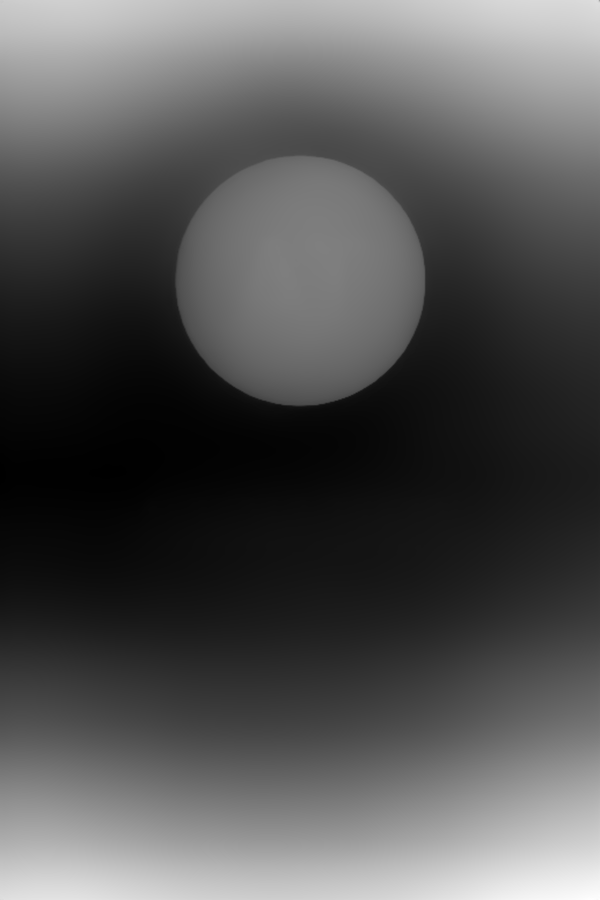
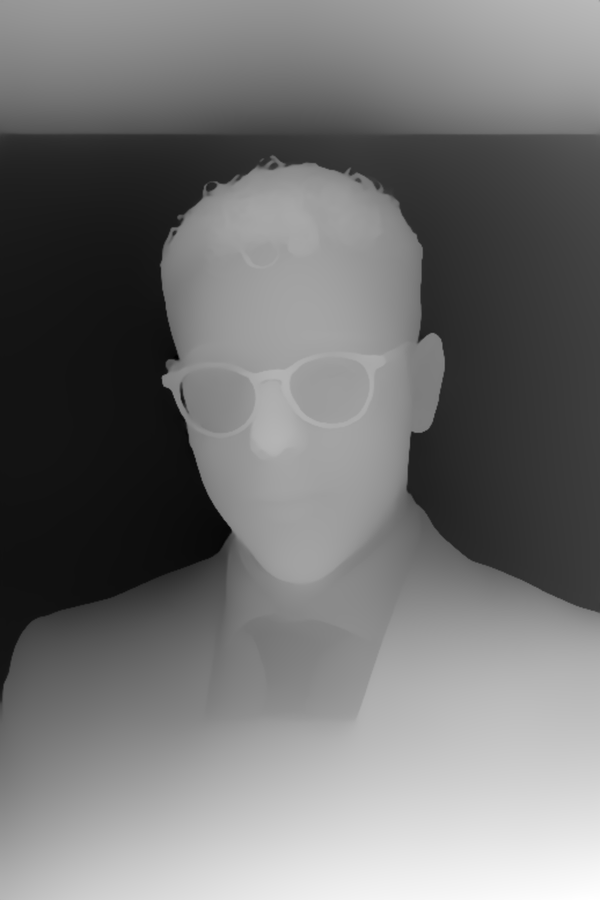
feat(team): Alberto Tuveri's real portrait replaces the monogram placeholder
The card, the headshot and the depth twin were all the same "PORTRAIT PENDING"
monogram since the third operator joined. This is the studio plate.

FRAMING IS NOT A CROP CHOICE — it is solved. The four portraits share ONE
sample grid, so a head at a different scale or height would move the union and
the fit for everyone. Measured off the three that shipped before it (hair top
0.168-0.175 of frame height, head width 0.395-0.448, face centre 0.466-0.507)
and reframed to the middle of that family: hair top 0.173, head width 0.438,
centre 0.486, at the house 1200x1800. The plate is a tighter crop than the
others, so the frame is EXTENDED with white above and below rather than the
head being shrunk — the studio backdrop makes the padding invisible.

THE TORSO WASH IS FUNCTIONAL. FounderPortraitMorph's note records that
Mattia's wash took his halfExtent from [140,146] to [136,135] and is why he is
not the widest subject. Alberto's shoulders reach both frame edges in the raw
plate, so the same vertical wash toward the backdrop (face untouched above the
chin) is applied — otherwise his extent, not Alessandro's, would set
worldPerGrid and EVERY face would render smaller.

DEPTH TWIN regenerated with scripts/generate-founder-depth.mjs (Depth Anything
V2 small, Apache-2.0 — never the CC-BY-NC checkpoints on the commercial site).

MEASURED IN-BROWSER, which is what the old TODO in FounderPortraitMorph
demanded before a 4th face could ship:
[…]

diff --git a/src/webgl/FounderPortraitMorph.tsx b/src/webgl/FounderPortraitMorph.tsx
@@ -134,12 +134,16 @@ const MAX_COUNT_BY_TIER: Record<"full" | "lite", number> = {
   //
   //   sharedCells 51,751 · stride 1 · count 51,751
   //
-  // TODO (N=4, 2026-08-27): the fourth headshot (alberto-headshot.webp) is a
-  // PLACEHOLDER monogram card until the real photo lands, so the union has
-  // NOT been re-measured. A fourth head of similar framing plausibly adds
-  // 5–10k cells → ~57–62k against this 60,000 ceiling. When the real headshot
-  // ships: measure getSampler().stride (MUST be 1) and sharedCells, then either
-  // raise this ceiling or shrink GRID_W/GRID_H by sqrt(wanted/measured).
+  // N=4 RESOLVED (2026-09-04): the real alberto-headshot.webp shipped and the
+  // union WAS re-measured in-browser, as the old TODO here demanded —
+  //
+  //   sharedCells 80,491 · stride 1 · count 80,491 · maxCount 100,000
+  //
+  // stride reads 1 (the requirement) with ~19.5% of headroom left under the
+  // ceiling, so nothing here had to move. The portrait was reframed to the
+  // shared head geometry measured off the three shipped headshots (hair top
+  // 0.171 of frame height, head width 0.417 of frame width, face centre
+  // 0.486) precisely so this union would not jump.
   //
   // Frame timing at that real instance count: median 144.9fps, p95 7.3ms — no
   // performance concern here, the count is not what to economise on.
@@ -744,19 +748,32 @@ export function FounderPortraitMorph({
     // aspect-[3/4]). It is X-bound with all three shipped headshots, and a
     // subject with a wider measured extent would not flip the fit — it would
     // simply lower worldPerGrid a few percent and render EVERY face slightly
-    // smaller. Expect halfExtent ≈ [[136,134],[129,137],[136,135]]; investigate
-    // only if max(halfExtentX) > 143. NEVER lower `fadeStart` to chase this: it
-    // is shared, so it would shrink everyone's bust. Check getSampler().
+    // smaller. NEVER lower `fadeStart` to chase this: it is shared, so it would
+    // shrink everyone's bust. Check getSampler().
     //
-    // max(halfExtentX) is ALESSANDRO's 136.50, as it has always been. Mattia is
-    // NOT the widest extent, so `worldPerGrid` is unchanged from the two-portrait
-    // build and the ~3% global face shrink the pre-wash analysis predicted does
-    // NOT occur. That is a property of the ASSET, not of this code: Mattia's
-    // headshot carries a vertical wash of the torso toward the white backdrop
-    // (face untouched above the chin), which took his halfExtent from [140,146]
-    // to [136,135]. Re-export that headshot WITHOUT the wash and both these
-    // expectations and the measured 51,751 union behind MAX_COUNT_BY_TIER stop
-    // holding — re-measure IN-BROWSER via __sersanFounderMorph.getSampler().
+    // MEASURED N=4, depth-matte era (2026-09-04, A→B→C→D = Alessandro,
+    // Michele, Alberto, Mattia):
+    //
+    //   [[183.13,171.40], [174.83,177.59], [178.82,171.74], [182.38,173.56]]
+    //
+    // (The [[136,134],[129,137],[136,135]] figures this note used to quote are
+    // PRE-depth-matte: ink became PRESENCE, so every extent grew ~35%. The old
+    // "investigate above 143" tripwire went with them — the number to watch is
+    // whether ONE portrait pulls away from the pack, not any absolute.)
+    //
+    // max(halfExtentX) is ALESSANDRO's 183.13, as it has always been. Alberto
+    // — the newest face — is NOT the widest, so `worldPerGrid` is unchanged and
+    // the global face shrink a wider fourth subject would have caused does NOT
+    // occur. That is a property of the ASSET, not of this code, and it was
+    // engineered: his headshot is reframed to the shared head geometry
+    // (hair top 0.171 · head width 0.417 · centre 0.486, measured off the three
+    // that shipped before it) and carries the same vertical wash of the torso
+    // toward the white backdrop that Mattia's does — the wash is what keeps the
+    // extent bound to the HEAD instead of to the shoulders, which reach the
+    // frame edge in the raw studio plate. Re-export any headshot WITHOUT the
+    // wash and both these expectations and the measured 80,491 union behind
+    // MAX_COUNT_BY_TIER stop holding — re-measure IN-BROWSER via
+    // __sersanFounderMorph.getSampler().
     // research/portrait-calibration/sampler_port.py is an order-of-magnitude
     // check only; it under-predicted the three-portrait union by ~8%.
     // LIT build iff EVERY target carries a depth twin (decided here because the
